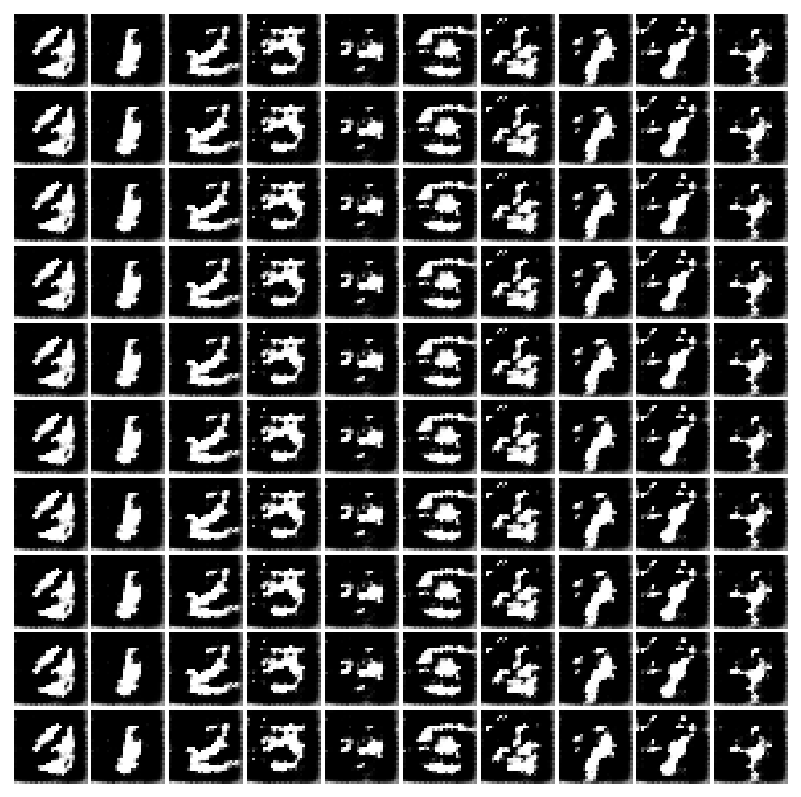
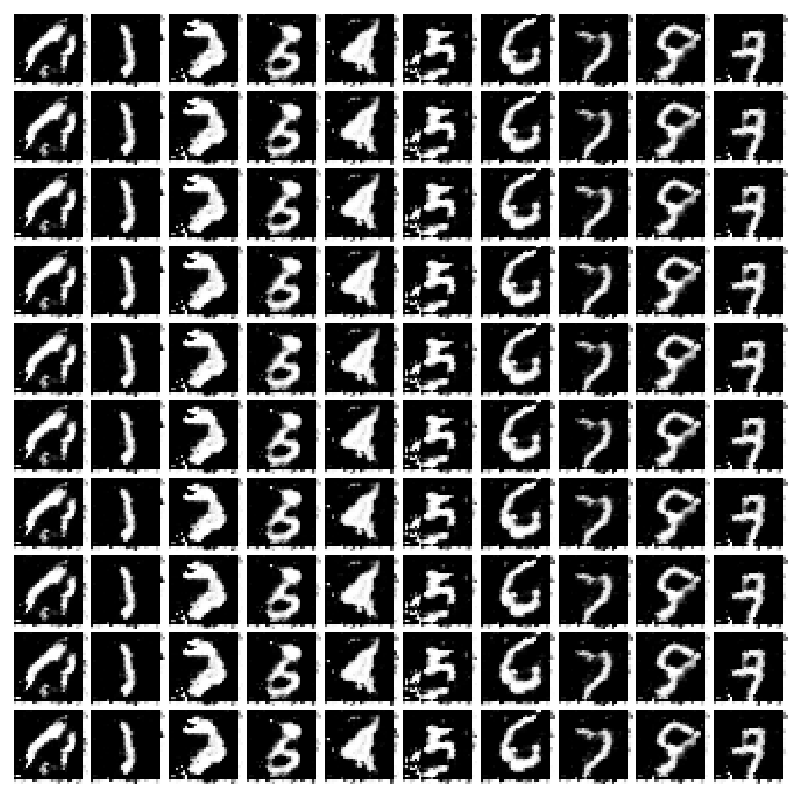
test run with img size 32

diff --git a/cDCGAN.py b/cDCGAN.py
@@ -25,7 +25,7 @@ except TypeError:
 
 # transform = torchvision.transforms.ToTensor()
 transform = transforms.Compose([
-    transforms.Scale(img_size)
+    transforms.Resize(img_size),
     transforms.ToTensor(),
     transforms.Normalize(mean=(0.5, 0.5, 0.5), std=(0.5, 0.5, 0.5))
     ])
@@ -66,7 +66,7 @@ class DiscrimanatorOrig(nn.Module):
         self.layer1_labels = nn.Sequential(
             nn.Conv2d(10, 64, [4,4], stride=[2,2]),
             nn.LeakyReLU(negative_slope=.2)
-        ) 
+        )
 
         self.layer2 = nn.Sequential(
             nn.Conv2d(128, 256, [4,4], stride=[2,2]),
@@ -74,28 +74,32 @@ class DiscrimanatorOrig(nn.Module):
             nn.LeakyReLU(negative_slope=.2)
         )
         self.layer3 = nn.Sequential(
-            nn.Conv2d(256, 512, [2,2], stride=[2,2]),
+            nn.Conv2d(256, 512, [4,4], stride=[2,2]),
             nn.BatchNorm2d(512),
             nn.LeakyReLU(negative_slope=.2)
         )
         self.layer4 = nn.Sequential (
-            nn.Conv2d(512, 1, [4,4], stride=[1,1]),
+            nn.Conv2d(512, 1, [2,2], stride=[1,1]),
             nn.Sigmoid())
 
     def forward(self, input, labels):
         x = self.layer1_input(input)
         y = self.layer1_labels(labels)
         out = torch.cat([x,y], 1)
+#        print("Discrimnator")
+ #       print("out1", out.shape)
         out = self.layer2(out)
+  #      print("out2", out.shape)
         out = self.layer3(out)
+   #     print("out3", out.shape)
         out = self.layer4(out)
+    #    print("out4", out.shape)
         return out
 
     def weight_init(m, mean, std):
         if isinstance(m, nn.ConvTranspose2d) or isinstance(m, nn.Conv2d):
             m.weight.data.normal_(mean, std)
             m.bias.data.zero_()
-        
 class Discriminator(nn.Module):
     def __init__(self):
         super(Discriminator, self).__init__()
@@ -198,13 +202,14 @@ class Generator(nn.Module):
             nn.BatchNorm2d(256),
             nn.ReLU())
         self.layer3 = nn.Sequential(
-            nn.ConvTranspose2d(256, 128, [4,4], stride=[2,2]),
+            nn.ConvTranspose2d(256, 128, [2,2], stride=[2,2], padding=2),
             nn.BatchNorm2d(128))
         self.layer4 = nn.Sequential(
-            nn.ConvTranspose2d(128, 1, [4,4], stride=[2,2]),
+            nn.ConvTranspose2d(128, 1, [2,2], stride=[2,2]),
             nn.Tanh())
 
     def forward(self, input, labels):
+#        print("generator")
         # print("input", input.shape)
         # print("label", labels.shape)
         x = self.layer1_input(input)
@@ -212,13 +217,13 @@ class Generator(nn.Module):
         # print("x", x.shape)
         # print("y", y.shape)
         out = torch.cat([x, y], 1)
-        # print("out1", out.shape)
+     #   print("out1", out.shape)
         out = self.layer2(out)
-        # print("out2", out.shape)
+      #  print("out2", out.shape)
         out = self.layer3(out)
-        # print("out3", out.shape)
+       # print("out3", out.shape)
         out = self.layer4(out)
-        # print("out4", out.shape)
+        #print("out4", out.shape)
         return out
     # def normal_init(m, mean, std):
     def weight_init(m, mean, std):
@@ -281,12 +286,12 @@ def save_images(generator, epoch, i):
 
     
 def train_gan(generator, discriminator, image_loader, epochs, num_train_batches=-1, lr=0.0002):
-    generator_lr = .0002
-    discriminator_lr = .0001
-    generator_optimizer = create_optimizer(generator, lr=generator_lr, betas=(.5, .999))
-    discriminator_optimizer = create_optimizer(discriminator, lr=discriminator_lr, betas=(.5, .999))
-    # generator_optimizer = create_optimizer(generator, lr=lr, betas=(.5, .999))
-    # discriminator_optimizer = create_optimizer(discriminator, lr=lr, betas=(.5, .999))
+    #generator_lr = .0002
+    #discriminator_lr = .0001
+    #generator_optimizer = create_optimizer(generator, lr=generator_lr, betas=(.5, .999))
+    #discriminator_optimizer = create_optimizer(discriminator, lr=discriminator_lr, betas=(.5, .999))
+    generator_optimizer = create_optimizer(generator, lr=lr, betas=(.5, .999))
+    discriminator_optimizer = create_optimizer(discriminator, lr=lr, betas=(.5, .999))
     BCE_loss = nn.BCELoss()
     iters = 0
     onehot = torch.zeros(10, 10)
